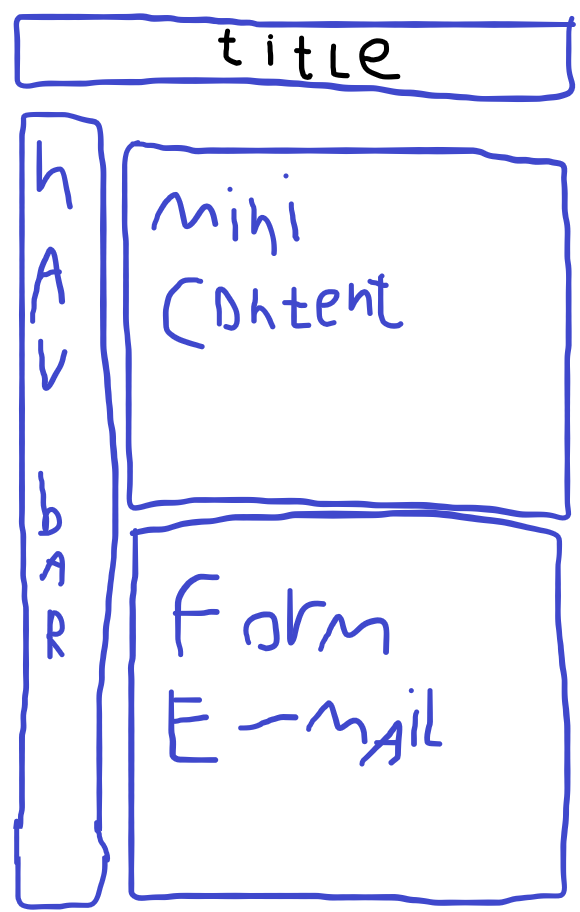
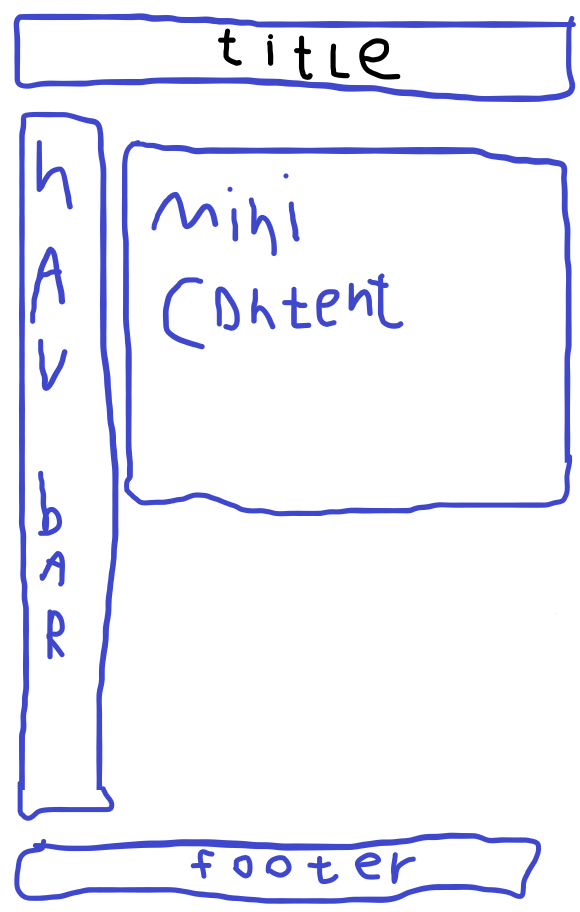
v2.9

diff --git a/Happy Travel/index.html b/Happy Travel/index.html
@@ -22,7 +22,7 @@
                 Dit komt door onze focus op de kwaliteit van het vliegen, bijvoorbeeld de werksomstandigheden van het personeel.</span></p>
         </div>
         <div class="footer">
-            <p>For more info check our contact page.</p>
+            <p>Voor suggesties of vragen, klik <a href="#contact" class="contact_lnk">hier!</a></p>
         </div>
     </body>
 </html>

diff --git a/Happy Travel/access/css/main.css b/Happy Travel/access/css/main.css
@@ -75,6 +75,9 @@ a:link, a:visited, a:hover, a:active {
 .mini_content_txt_medium {
     font-size: 1.1vw;
 }
+.contact_lnk {
+    color: white;
+}
 .footer {
     display: flex;
     position: fixed;
